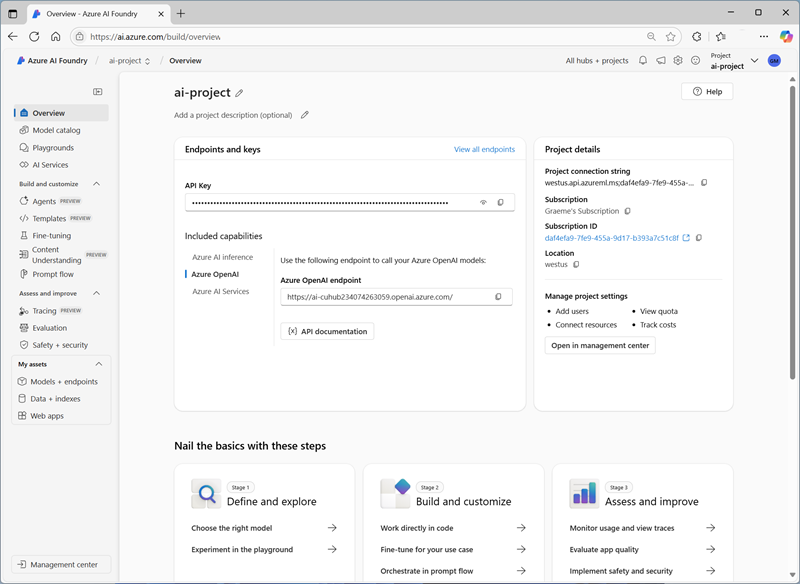
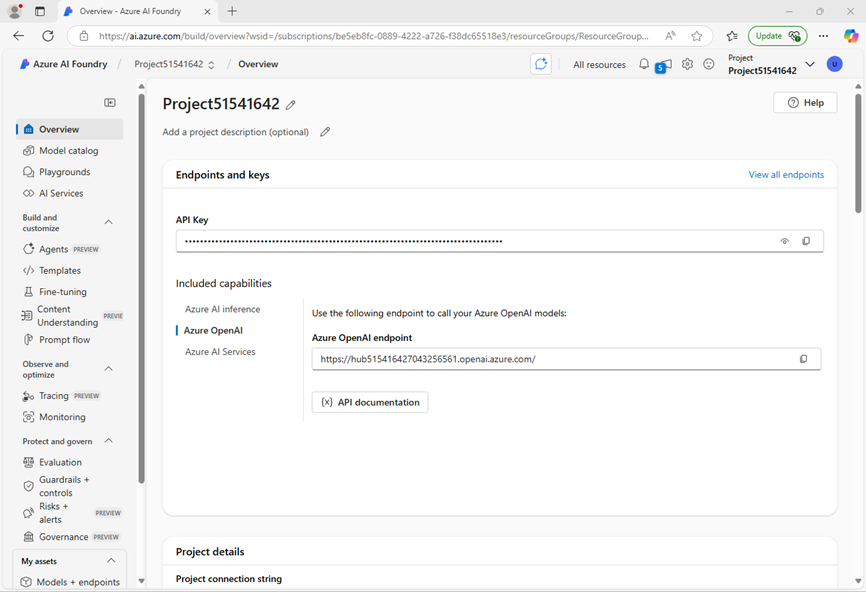
Updated Content Udnerstanding UI

diff --git a/Instructions/Labs/01-content-understanding.md b/Instructions/Labs/01-content-understanding.md
@@ -16,20 +16,19 @@ Let's start by creating an Azure AI Foundry project.
 
 1. In a web browser, open the [Azure AI Foundry portal](https://ai.azure.com) at `https://ai.azure.com` and sign in using your Azure credentials. Close any tips or quick start panes that are opened the first time you sign in, and if necessary use the **Azure AI Foundry** logo at the top left to navigate to the home page, which looks similar to the following image:
 
-    ![Screenshot of Azure AI Foundry portal.](./media/ai-foundry-portal.png)
+    ![Screenshot of Azure AI Foundry portal.](./media/ai-foundry-home.png)
 
-1. In the home page, select **+ Create project**.
-1. In the **Create a project** wizard, enter a valid name for your project, and if an existing hub is suggested, choose the option to create a new one. Then review the Azure resources that will be automatically created to support your hub and project.
-1. Select **Customize** and specify the following settings for your hub:
-    - **Hub name**: *A valid name for your hub*
+1. At the bottom of the home page, select **Explore Azure AI Services**.
+1. In the Azure AI Services page, select **Try Content Understanding**.
+1. Select **Select or create a project to start** and choose the option to **Create a new project**.
+1. In the **Create a project** wizard, enter a valid name for your project, and if an existing hub is suggested, select the option to create a new one and expand **Advanced options** to specify the following settings for your project:
     - **Subscription**: *Your Azure subscription*
     - **Resource group**: *Create or select a resource group*
-    - **Location**: Choose one of the following regions\*
-        - West US
-        - Sweden Central
+    - **Hub name**: *A valid name for your hub*
+    - **Location**: Choose one of the following locations:\*
         - Australia East
-    - **Connect Azure AI Services or Azure OpenAI**: *Create a new AI Services resource*
-    - **Connect Azure AI Search**: Skip connecting
+        - Sweden Central
+        - West US
 
     > \*At the time of writing, Azure AI Content understanding is only avilable in these regions.
 
@@ -54,8 +53,8 @@ You are going to build an Azure AI Content Understanding analyzer that can extra
 ### Define a schema for invoice analysis
 
 1. In the browser tab containing the home page for your Azure AI Foundry project; in the navigation pane on the left, select **Content Understanding**.
-1. On the **Content Understanding** page, select the **Custom analyzer** tab at the top.
-1. On the Content Understanding custom analyzer page, select **+ Create**, and create a task with the following settings:
+1. On the **Content Understanding** page, select the **Custom task** tab at the top.
+1. On the Content Understanding custom task page, select **+ Create**, and create a task with the following settings:
     - **Task name**: `Invoice analysis`
     - **Description**: `Extract data from an invoice`
     - **Azure AI services connection**: *The Azure AI Services resource in your Azure AI Foundry hub*
@@ -149,8 +148,8 @@ You are going to build an Azure AI Content Understanding analyzer that can extra
 ### Define a schema for image analysis
 
 1. In the browser tab containing the home page for your Azure AI Foundry project; in the navigation pane on the left, select **Content Understanding**.
-1. On the **Content Understanding** page, select the **Custom analyzer** tab at the top.
-1. On the Content Understanding custom analyzer page, select **+ Create**, and create a task with the following settings:
+1. On the **Content Understanding** page, select the **Custom task** tab at the top.
+1. On the Content Understanding custom task page, select **+ Create**, and create a task with the following settings:
     - **Task name**: `Slide analysis`
     - **Description**: `Extract data from an image of a slide`
     - **Azure AI services connection**: *The Azure AI Services resource in your Azure AI Foundry hub*
@@ -232,8 +231,8 @@ You are going to build an Azure AI Content Understanding analyzer that can extra
 ### Define a schema for audio analysis
 
 1. In the browser tab containing the home page for your Azure AI Foundry project; in the navigation pane on the left, select **Content Understanding**.
-1. On the **Content Understanding** page, select the **Custom analyzer** tab at the top.
-1. On the Content Understanding custom analyzer page, select **+ Create**, and create a task with the following settings:
+1. On the **Content Understanding** page, select the **Custom task** tab at the top.
+1. On the Content Understanding custom task page, select **+ Create**, and create a task with the following settings:
     - **Task name**: `Voicemail analysis`
     - **Description**: `Extract data from a voicemail recording`
     - **Azure AI services connection**: *The Azure AI Services resource in your Azure AI Foundry hub*
@@ -309,8 +308,8 @@ You are going to build an Azure AI Content Understanding analyzer that can extra
 ### Define a schema for video analysis
 
 1. In the browser tab containing the home page for your Azure AI Foundry project; in the navigation pane on the left, select **Content Understanding**.
-1. On the **Content Understanding** page, select the **Custom analyzer** tab at the top.
-1. On the Content Understanding custom analyzer page, select **+ Create**, and create a task with the following settings:
+1. On the **Content Understanding** page, select the **Custom task** tab at the top.
+1. On the Content Understanding custom task page, select **+ Create**, and create a task with the following settings:
     - **Task name**: `Conference call video analysis`
     - **Description**: `Extract data from a video conference recording`
     - **Azure AI services connection**: *The Azure AI Services resource in your Azure AI Foundry hub*
